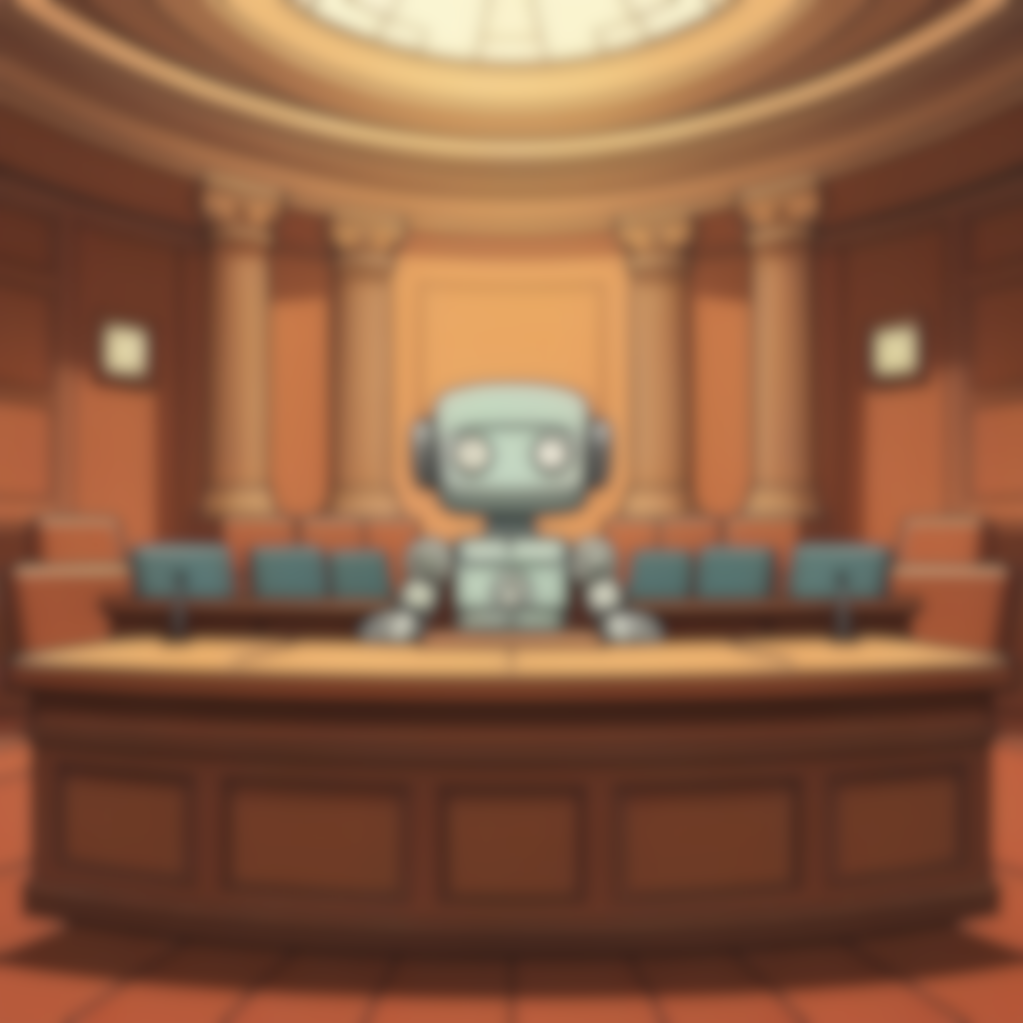
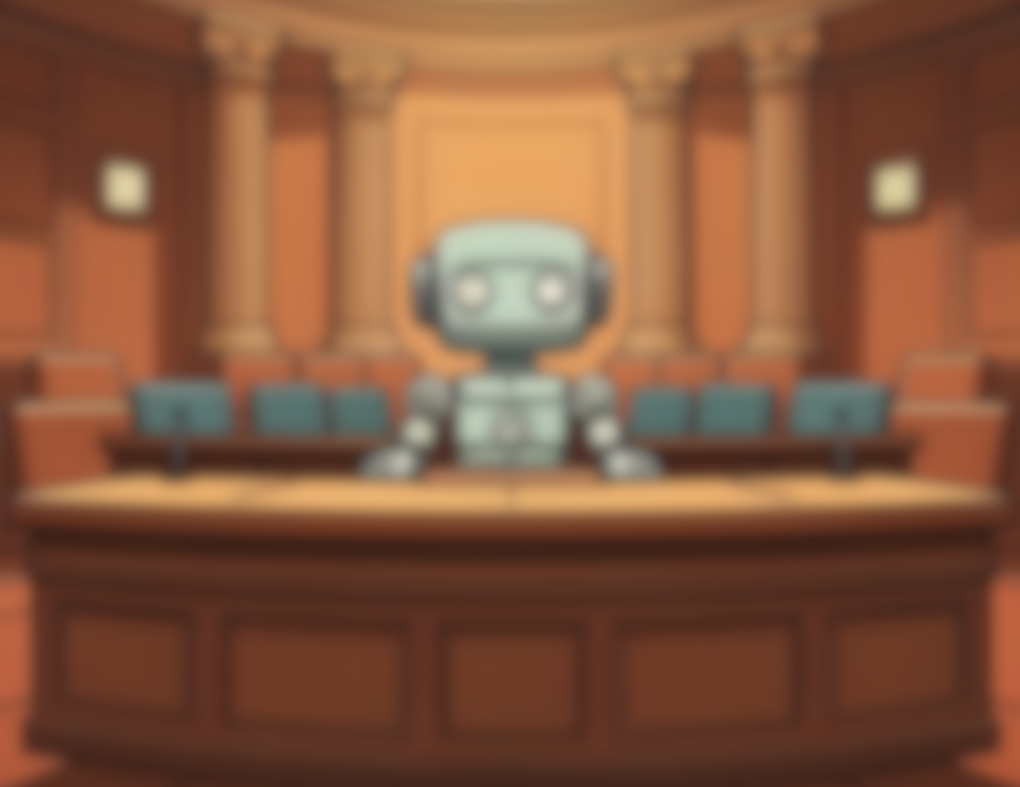
convincemepage

diff --git a/LAHacks2024/pages/convinceme.py b/LAHacks2024/pages/convinceme.py
@@ -1,0 +1,66 @@
+import reflex as rx
+
+def convincemepage():
+    return rx.script('document.body.style.overflow = "hidden";'), rx.center(
+        rx.box(
+            rx.chakra.text("Convince Me", fontFamily="IM Fell DW Pica SC", lineHeight="1.3",
+                fontWeight="regular",
+                fontSize="80px",
+                # color="#FFFFFF",
+                
+            ),
+            
+            
+            
+            direction="column",
+            align="center",
+            justify="center",
+            style={"margin-bottom": "10%"},
+            spacing="8",
+            
+            height="100vh",  # This ensures the flex container fills the viewport height
+        ),
+
+        # chat box
+        rx.box(
+            rx.chakra.popover(
+                rx.chakra.popover_trigger(
+                    rx.chakra.button("How to Play")
+                ),
+                rx.chakra.popover_content(
+                    rx.chakra.popover_header("Game Rules"),
+                    rx.list.ordered(
+                        rx.list.item("Join a game."),
+                        rx.list.item("Select an ability."),
+                        rx.list.item("Prove you'd win."),
+                    ),
+                    rx.chakra.popover_close_button(),
+                ),
+            ),
+            style={"position": "fixed", "bottom": "20px", "right": "20px"},
+            background_color="#CC9E58"
+        ),
+        
+        # text field at the bottom
+        rx.chakra.input(
+    placeholder="Enter your text here...",
+    style={
+        "position": "fixed",
+        "bottom": "10px",
+        "left": "50%",  # Aligning to the middle horizontally
+        "width": "65%",  # 60% width of the viewport
+        "transform": "translateX(-50%)",  # Centering the text field horizontally
+        "color": "#FFFFFF"  # Making the text white
+    }
+),
+
+
+        # background
+        background="center/cover url('/blurryRobot.png')",
+        width="100%",
+        height="100%",
+        ext_align="center",
+        style={
+                "background-position": "bottom",  # Position the background image at the bottom
+            }
+    )

diff --git a/LAHacks2024/pages/landing.py b/LAHacks2024/pages/landing.py
@@ -1,11 +1,8 @@
 import reflex as rx
 from LAHacks2024.server import DBServer
 
-<<<<<<< HEAD
 
 
-=======
->>>>>>> b8d748391324515115b1c1bd8ef2989567b47332
 # @rx.page(route="/landing")
 class LandingState(rx.State):
     is_host: bool = False
@@ -32,14 +29,6 @@ class LandingState(rx.State):
             
         except Exception as e: 
             print(e)
-
-# app = rx.App(
-#     stylesheets=[
-#      "https://fonts.googleapis.com/css2?family=IM+Fell+DW+Pica+SC&display=swap",
-#    ],
-#  )
-
-# stylesheets=["https://fonts.googleapis.com/css2?family=IM+Fell+DW+Pica+SC&display=swap"]
 
 
 def index():
@@ -69,7 +58,6 @@ def index():
                     "opacity": 0.9,
                 },
             ),
-<<<<<<< HEAD
             rx.hstack(
                 rx.button(
                     "Join", 
@@ -88,8 +76,6 @@ def index():
                 ),
                 rx.input(placeholder=" Enter Code", max_length="20", radius="full", style={"width": "92px", "height": "48px"}),
             ),
-=======
->>>>>>> b8d748391324515115b1c1bd8ef2989567b47332
             rx.form.root(
                 rx.hstack(
                     rx.input(
@@ -129,8 +115,9 @@ def index():
                 rx.chakra.popover_content(
                     rx.chakra.popover_header("Game Rules"),
                     rx.list.ordered(
-                        rx.list.item("Join a game"),
-                        rx.list.item("Select an ability"),
+                        rx.list.item("Join a game."),
+                        rx.list.item("Select an ability."),
+                        rx.list.item("Prove you'd win."),
                     ),
                     
                     rx.chakra.popover_close_button(),

diff --git a/LAHacks2024/LAHacks2024.py b/LAHacks2024/LAHacks2024.py
@@ -5,11 +5,10 @@ from rxconfig import config
 import reflex as rx
 from LAHacks2024.pages import landing
 from LAHacks2024.pages import naming
-<<<<<<< HEAD
 from LAHacks2024.pages import abilities
-=======
 from LAHacks2024.pages import room
->>>>>>> b8d748391324515115b1c1bd8ef2989567b47332
+from LAHacks2024.pages import convinceme
+
 docs_url = "https://reflex.dev/docs/getting-started/introduction/"
 filename = f"{config.app_name}/{config.app_name}.py"
 
@@ -26,11 +25,9 @@ app = rx.App(stylesheets=[
 
 app.add_page(landing.index)
 #subpage
-<<<<<<< HEAD
-app.add_page(naming.index, route="/naming")
+app.add_page(naming.naming_page, route="/naming")
 app.add_page(abilities.index, route="/abilities")
+app.add_page(convinceme.convincemepage, route="/convinceme")
 
-=======
 app.add_page(naming.naming_page, route="/naming")
 app.add_page(room.room_page)
->>>>>>> b8d748391324515115b1c1bd8ef2989567b47332
